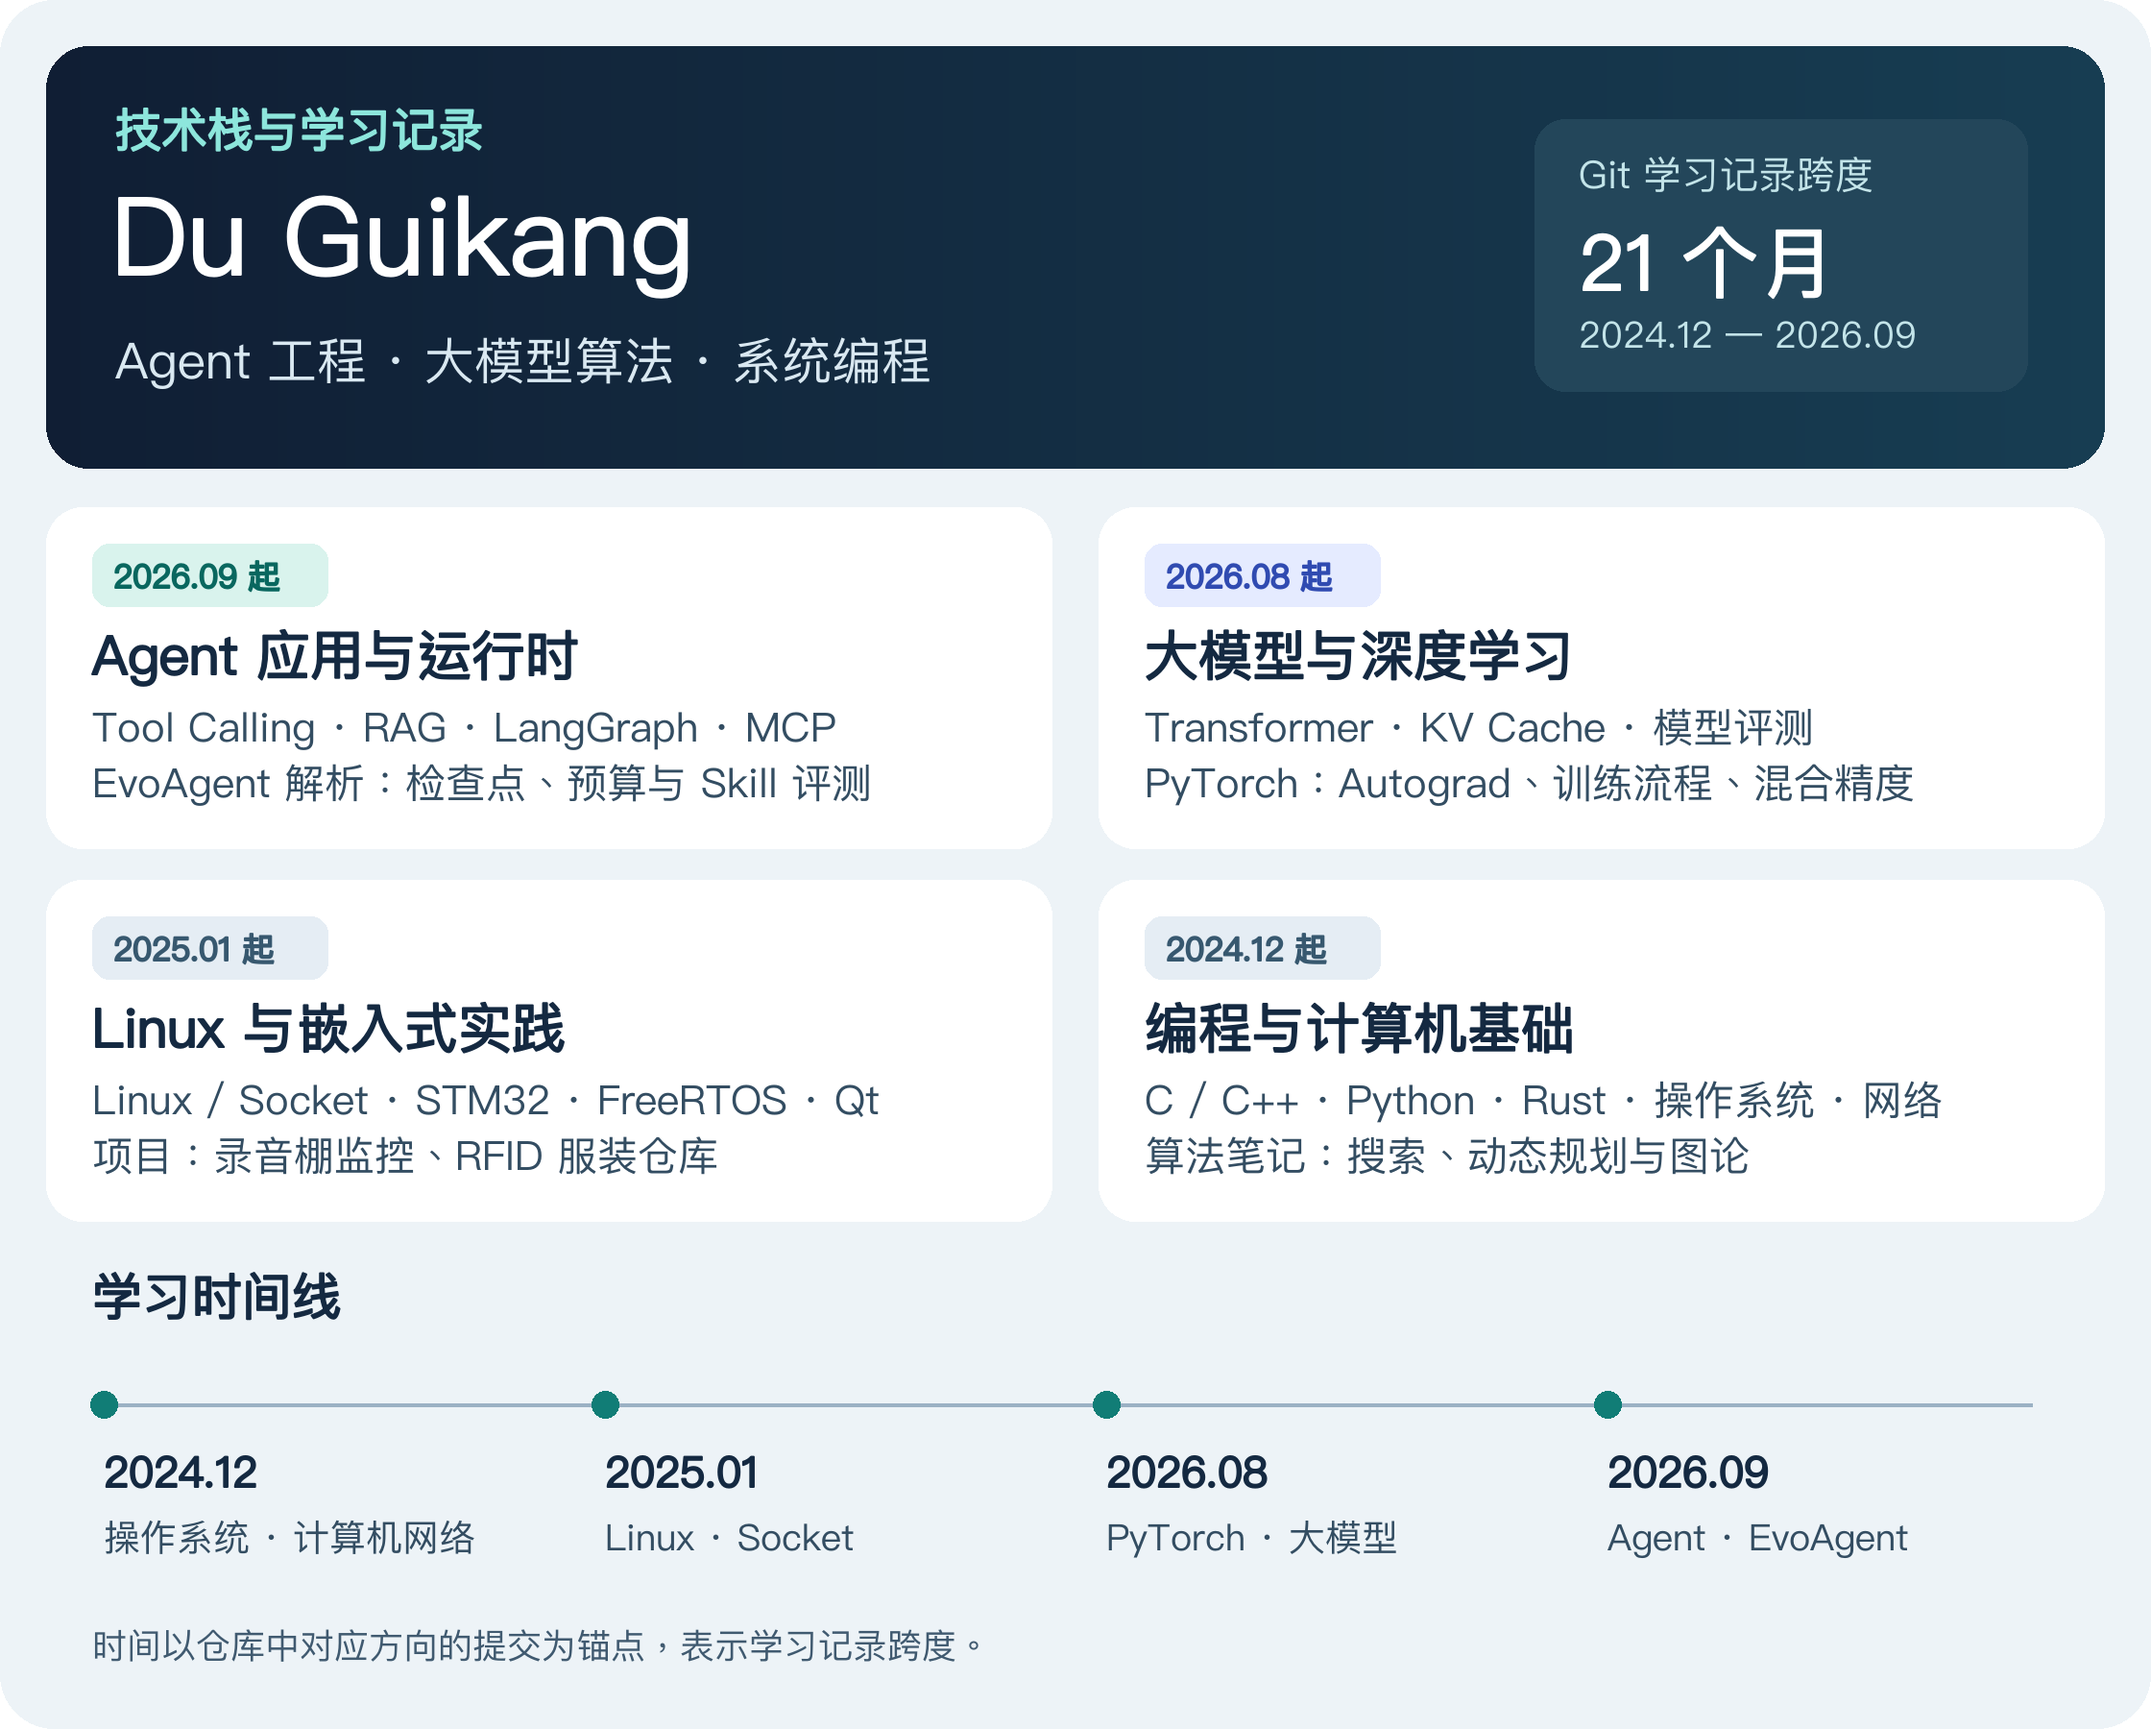
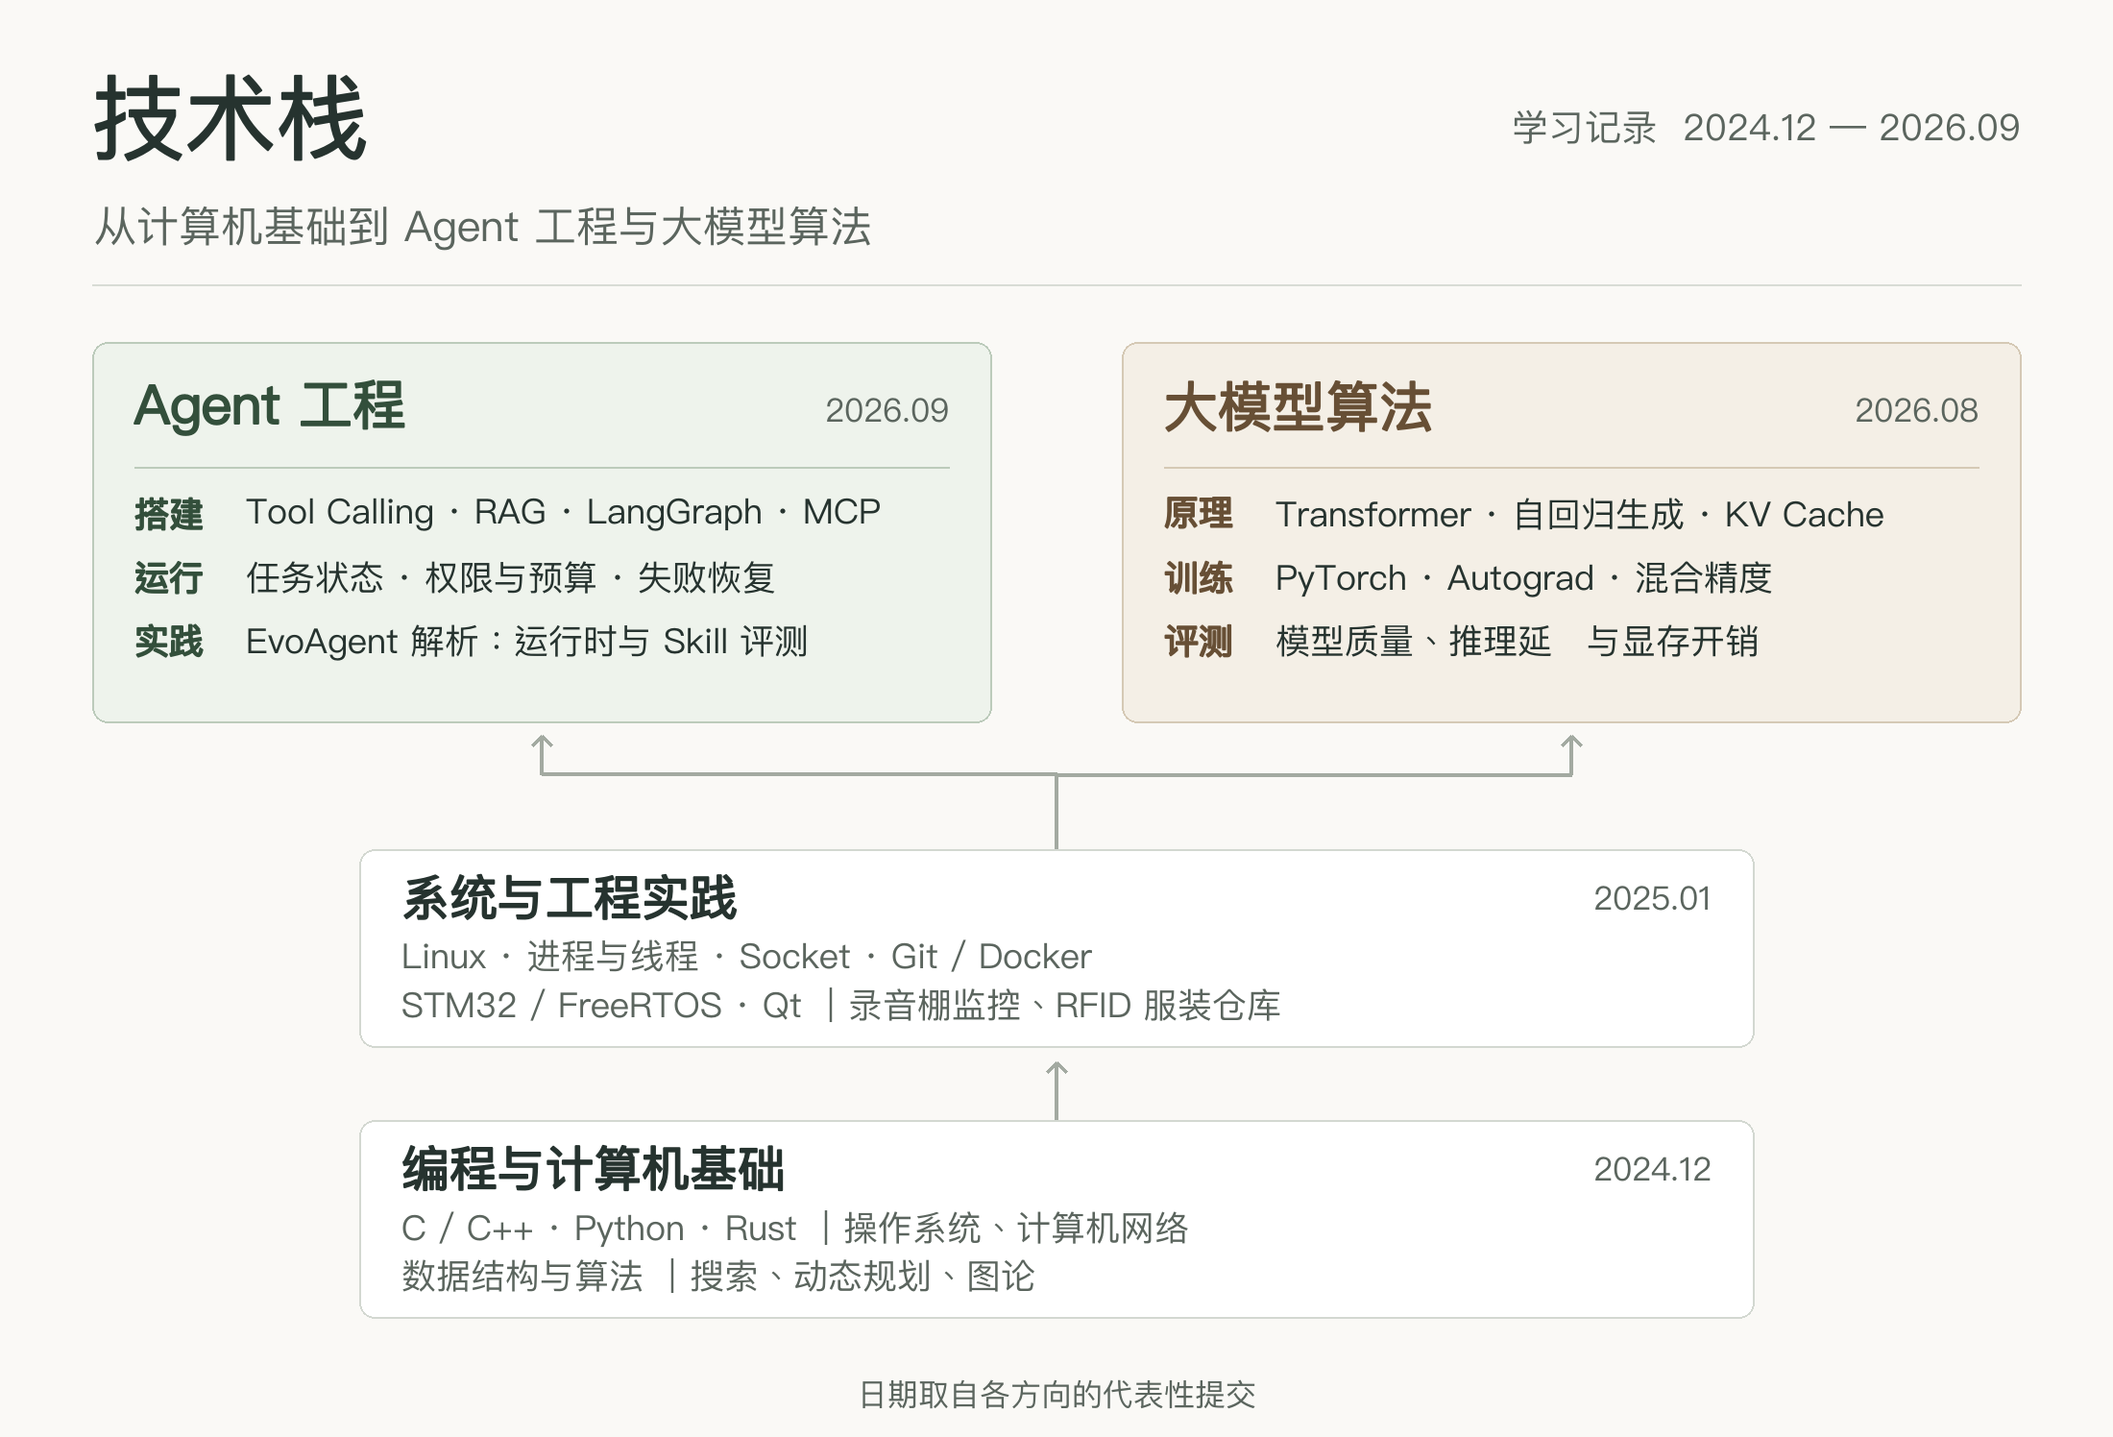
docs: show technical skills as a tree

diff --git a/README.md b/README.md
@@ -1,1 +1,1 @@
-![Du Guikang 的技术栈与学习时间线](assets/technical-profile.png)
+![技术栈树：从计算机基础、系统实践到 Agent 工程与大模型算法](assets/technical-profile.png)
